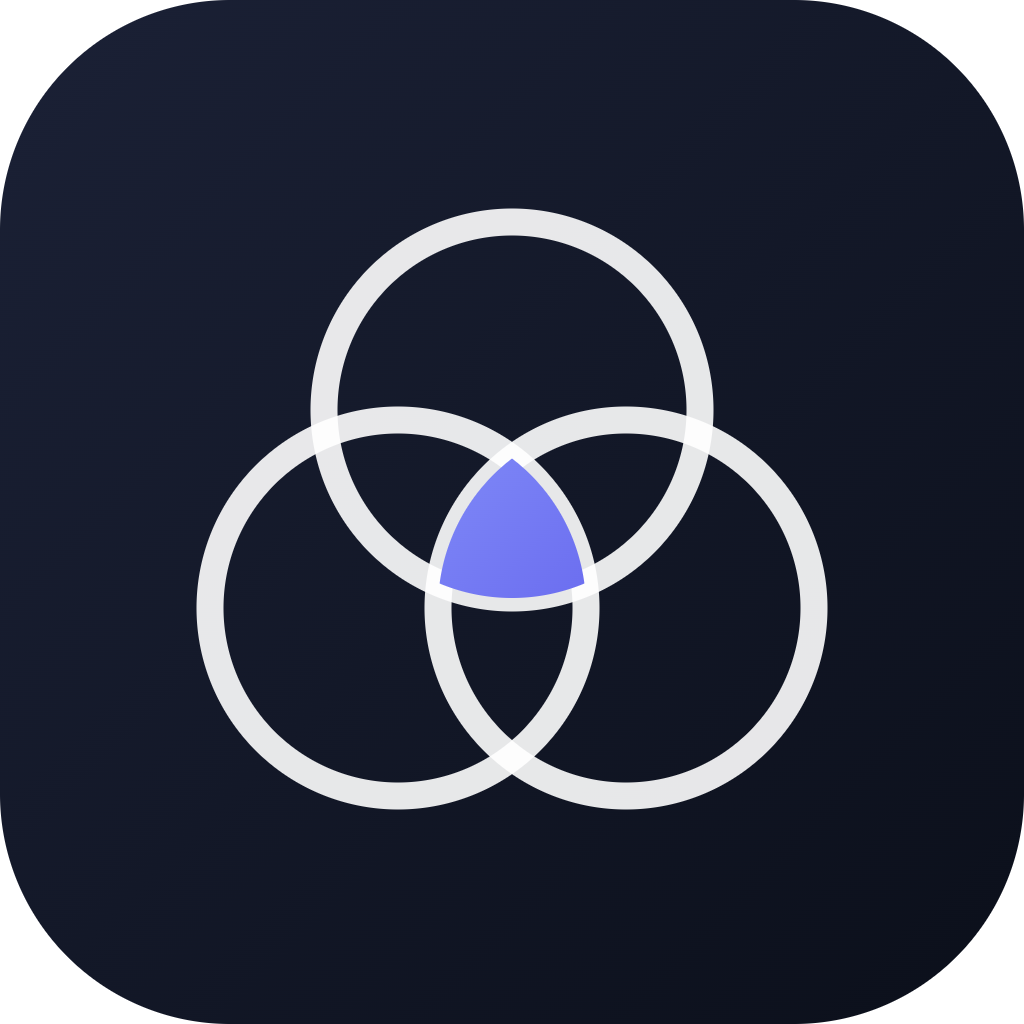
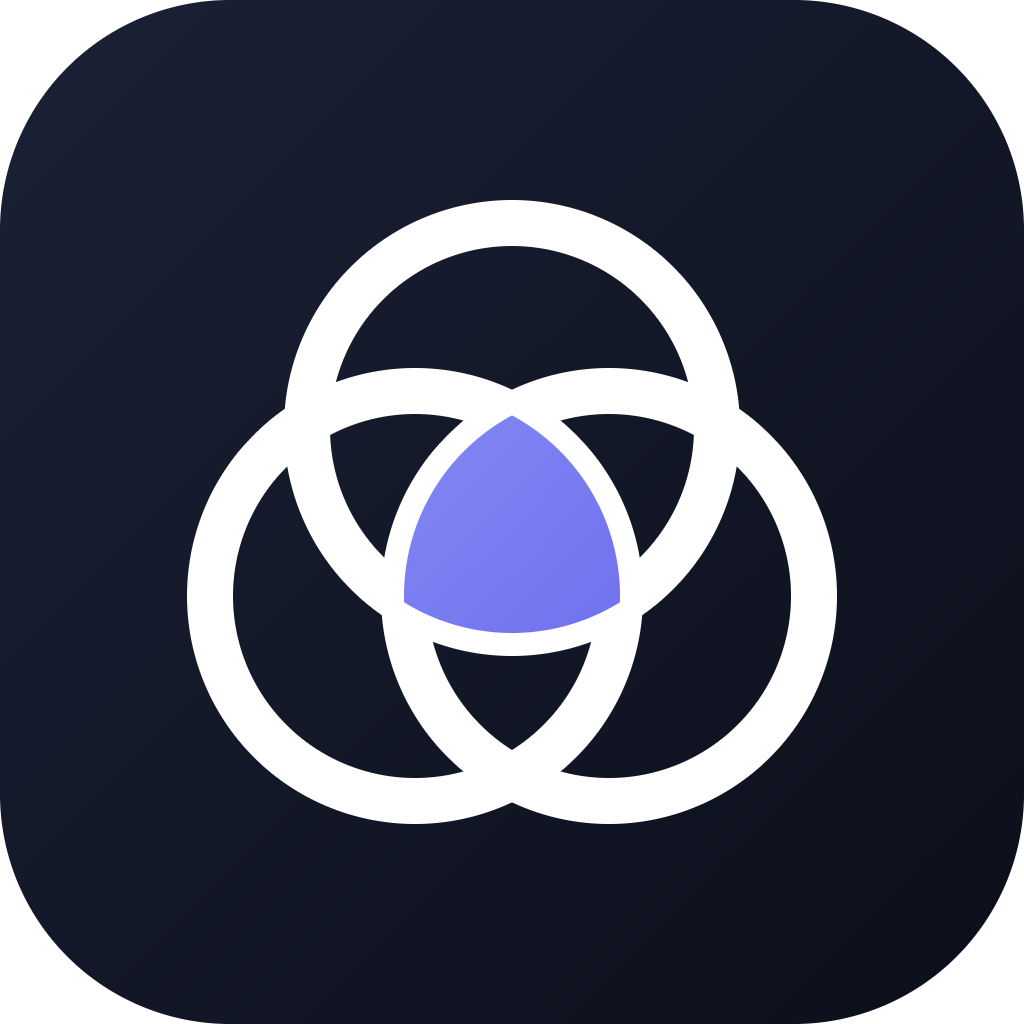
New identity: light the space the three circles share
Keeps the three circles but makes the shared middle the subject rather than a
detail, which is what the mark is actually about.

The old version failed as an icon, measurably: at 32px and 22px its 27-unit
strokes blurred into a grey smudge and the lit centre disappeared. Strokes are
now 46 and the circles sit closer together (d/r 0.55 rather than 0.70), which
enlarges the shared region so it still reads at 22px. The arrangement is
equilateral and shifted to y 540 so the bounding box is centred in the tile —
drawn around y 512 it sat 28 units high.

Applied everywhere: app icon, Android adaptive foreground/background/
monochrome, splash, favicon, the light variant for coloured grounds, and the
marks drawn in code inside Avatar and EmptyFeed, which now use the icon's exact
proportions so the brand cannot drift between them.

Adds the PWA layer that was missing entirely. Expo's static export emits no
manifest, so the app could not be installed to a desktop or home screen with
its own icon — it would have appeared as a generic browser shortcut.
app/+html.tsx now supplies the manifest link, the iOS touch icon (iOS ignores
the manifest for home-screen icons), theme colour, and Open Graph tags so a
shared event link previews properly.

Also drops the leftover Expo template react-logo art, which was never ours.

Changed region(s): [[0.1562, 0.1875, 0.8438, 0.8125]]

diff --git a/design/logo/mark.html b/design/logo/mark.html
@@ -1,84 +1,81 @@
-<!doctype html><html><head><meta charset="utf-8"><style>
- body{margin:0;background:transparent}
- svg{display:block}
-</style></head><body>
-
-<!-- Reusable mark: three circles meeting; the shared centre is the third space. -->
-<svg id="app-icon" width="1024" height="1024" viewBox="0 0 1024 1024" xmlns="http://www.w3.org/2000/svg">
+<!doctype html><html><head><meta charset="utf-8"><style>body{margin:0;background:transparent}svg{display:block}</style></head><body><svg id="app-icon" width="1024" height="1024" viewBox="0 0 1024 1024" xmlns="http://www.w3.org/2000/svg">
   <defs>
-    <linearGradient id="bg" x1="0" y1="0" x2="1" y2="1">
-      <stop offset="0%" stop-color="#1b2136"/><stop offset="100%" stop-color="#0b0f1a"/>
-    </linearGradient>
-    <linearGradient id="core" x1="0" y1="0" x2="1" y2="1">
-      <stop offset="0%" stop-color="#818cf8"/><stop offset="100%" stop-color="#4f46e5"/>
-    </linearGradient>
-    <clipPath id="k1"><circle cx="512" cy="410" r="188"/></clipPath>
-    <clipPath id="k2"><circle cx="398" cy="608" r="188"/></clipPath>
+    <linearGradient id="icbg" x1="0" y1="0" x2="1" y2="1"><stop offset="0%" stop-color="#1b2136"/><stop offset="100%" stop-color="#0b0f1a"/></linearGradient>
+    <linearGradient id="ichot" x1="0" y1="0" x2="1" y2="1"><stop offset="0%" stop-color="#a5b4fc"/><stop offset="100%" stop-color="#4f46e5"/></linearGradient>
+    <clipPath id="icc0"><circle cx="512.0" cy="428.0" r="205.0"/></clipPath>
+    <clipPath id="icc1"><circle cx="609.0" cy="596.0" r="205.0"/></clipPath>
+    <clipPath id="icc2"><circle cx="415.0" cy="596.0" r="205.0"/></clipPath>
   </defs>
-  <rect width="1024" height="1024" rx="230" fill="url(#bg)"/>
-  <g fill="none" stroke="#ffffff" stroke-opacity="0.9" stroke-width="27">
-    <circle cx="512" cy="410" r="188"/>
-    <circle cx="398" cy="608" r="188"/>
-    <circle cx="626" cy="608" r="188"/>
+  <rect width="1024" height="1024" rx="230" fill="url(#icbg)"/>
+  <g fill="none" stroke="#ffffff" stroke-width="46">
+      <circle cx="512.0" cy="428.0" r="205.0"/>
+      <circle cx="609.0" cy="596.0" r="205.0"/>
+      <circle cx="415.0" cy="596.0" r="205.0"/>
   </g>
-  <g clip-path="url(#k1)"><g clip-path="url(#k2)">
-    <circle cx="626" cy="608" r="188" fill="url(#core)"/>
-  </g></g>
-</svg>
-
-<!-- Android adaptive foreground: mark only, inside the 66% safe zone. -->
-<svg id="android-fg" width="1024" height="1024" viewBox="0 0 1024 1024" xmlns="http://www.w3.org/2000/svg">
+  <g clip-path="url(#icc0)"><g clip-path="url(#icc1)"><g clip-path="url(#icc2)">
+    <rect width="1024" height="1024" fill="url(#ichot)"/>
+  </g></g></g>
+</svg><svg id="android-fg" width="1024" height="1024" viewBox="0 0 1024 1024" xmlns="http://www.w3.org/2000/svg">
   <defs>
-    <linearGradient id="core2" x1="0" y1="0" x2="1" y2="1">
-      <stop offset="0%" stop-color="#818cf8"/><stop offset="100%" stop-color="#4f46e5"/>
-    </linearGradient>
-    <clipPath id="m1"><circle cx="512" cy="454" r="118"/></clipPath>
-    <clipPath id="m2"><circle cx="440" cy="578" r="118"/></clipPath>
+    <linearGradient id="afhot" x1="0" y1="0" x2="1" y2="1"><stop offset="0%" stop-color="#a5b4fc"/><stop offset="100%" stop-color="#4f46e5"/></linearGradient>
+    <clipPath id="afc0"><circle cx="512.0" cy="459.9" r="127.1"/></clipPath>
+    <clipPath id="afc1"><circle cx="572.1" cy="564.1" r="127.1"/></clipPath>
+    <clipPath id="afc2"><circle cx="451.9" cy="564.1" r="127.1"/></clipPath>
   </defs>
-  <g fill="none" stroke="#ffffff" stroke-width="17">
-    <circle cx="512" cy="454" r="118"/>
-    <circle cx="440" cy="578" r="118"/>
-    <circle cx="584" cy="578" r="118"/>
+  <g fill="none" stroke="#ffffff" stroke-width="29">
+      <circle cx="512.0" cy="459.9" r="127.1"/>
+      <circle cx="572.1" cy="564.1" r="127.1"/>
+      <circle cx="451.9" cy="564.1" r="127.1"/>
   </g>
-  <g clip-path="url(#m1)"><g clip-path="url(#m2)">
-    <circle cx="584" cy="578" r="118" fill="url(#core2)"/>
-  </g></g>
-</svg>
-
-<!-- Android adaptive background -->
-<svg id="android-bg" width="1024" height="1024" viewBox="0 0 1024 1024" xmlns="http://www.w3.org/2000/svg">
-  <defs><linearGradient id="bg2" x1="0" y1="0" x2="1" y2="1">
-    <stop offset="0%" stop-color="#1b2136"/><stop offset="100%" stop-color="#0b0f1a"/>
-  </linearGradient></defs>
-  <rect width="1024" height="1024" fill="url(#bg2)"/>
-</svg>
-
-<!-- Monochrome (themed icons): flat silhouette -->
-<svg id="android-mono" width="1024" height="1024" viewBox="0 0 1024 1024" xmlns="http://www.w3.org/2000/svg">
-  <g fill="none" stroke="#ffffff" stroke-width="17">
-    <circle cx="512" cy="454" r="118"/>
-    <circle cx="440" cy="578" r="118"/>
-    <circle cx="584" cy="578" r="118"/>
-  </g>
-</svg>
-
-<!-- Splash: mark without the plate, drawn on the splash background colour -->
-<svg id="splash" width="1024" height="1024" viewBox="0 0 1024 1024" xmlns="http://www.w3.org/2000/svg">
+  <g clip-path="url(#afc0)"><g clip-path="url(#afc1)"><g clip-path="url(#afc2)">
+    <rect width="1024" height="1024" fill="url(#afhot)"/>
+  </g></g></g>
+</svg><svg id="android-mono" width="1024" height="1024" viewBox="0 0 1024 1024" xmlns="http://www.w3.org/2000/svg">
   <defs>
-    <linearGradient id="core3" x1="0" y1="0" x2="1" y2="1">
-      <stop offset="0%" stop-color="#818cf8"/><stop offset="100%" stop-color="#4f46e5"/>
-    </linearGradient>
-    <clipPath id="s1"><circle cx="512" cy="424" r="176"/></clipPath>
-    <clipPath id="s2"><circle cx="405" cy="608" r="176"/></clipPath>
+    <linearGradient id="amhot" x1="0" y1="0" x2="1" y2="1"><stop offset="0%" stop-color="#ffffff"/><stop offset="100%" stop-color="#ffffff"/></linearGradient>
+    <clipPath id="amc0"><circle cx="512.0" cy="459.9" r="127.1"/></clipPath>
+    <clipPath id="amc1"><circle cx="572.1" cy="564.1" r="127.1"/></clipPath>
+    <clipPath id="amc2"><circle cx="451.9" cy="564.1" r="127.1"/></clipPath>
   </defs>
-  <g fill="none" stroke="#111827" stroke-width="25">
-    <circle cx="512" cy="424" r="176"/>
-    <circle cx="405" cy="608" r="176"/>
-    <circle cx="619" cy="608" r="176"/>
+  <g fill="none" stroke="#ffffff" stroke-width="29">
+      <circle cx="512.0" cy="459.9" r="127.1"/>
+      <circle cx="572.1" cy="564.1" r="127.1"/>
+      <circle cx="451.9" cy="564.1" r="127.1"/>
   </g>
-  <g clip-path="url(#s1)"><g clip-path="url(#s2)">
-    <circle cx="619" cy="608" r="176" fill="url(#core3)"/>
-  </g></g>
-</svg>
-
-</body></html>
+  <g clip-path="url(#amc0)"><g clip-path="url(#amc1)"><g clip-path="url(#amc2)">
+    <rect width="1024" height="1024" fill="url(#amhot)"/>
+  </g></g></g>
+</svg><svg id="splash" width="1024" height="1024" viewBox="0 0 1024 1024" xmlns="http://www.w3.org/2000/svg">
+  <defs>
+    <linearGradient id="sphot" x1="0" y1="0" x2="1" y2="1"><stop offset="0%" stop-color="#a5b4fc"/><stop offset="100%" stop-color="#4f46e5"/></linearGradient>
+    <clipPath id="spc0"><circle cx="512.0" cy="438.1" r="180.4"/></clipPath>
+    <clipPath id="spc1"><circle cx="597.4" cy="585.9" r="180.4"/></clipPath>
+    <clipPath id="spc2"><circle cx="426.6" cy="585.9" r="180.4"/></clipPath>
+  </defs>
+  <g fill="none" stroke="#111827" stroke-width="40">
+      <circle cx="512.0" cy="438.1" r="180.4"/>
+      <circle cx="597.4" cy="585.9" r="180.4"/>
+      <circle cx="426.6" cy="585.9" r="180.4"/>
+  </g>
+  <g clip-path="url(#spc0)"><g clip-path="url(#spc1)"><g clip-path="url(#spc2)">
+    <rect width="1024" height="1024" fill="url(#sphot)"/>
+  </g></g></g>
+</svg><svg id="mark-light" width="1024" height="1024" viewBox="0 0 1024 1024" xmlns="http://www.w3.org/2000/svg">
+  <defs>
+    <linearGradient id="mlhot" x1="0" y1="0" x2="1" y2="1"><stop offset="0%" stop-color="#ffffff"/><stop offset="100%" stop-color="#ffffff"/></linearGradient>
+    <clipPath id="mlc0"><circle cx="512.0" cy="438.1" r="180.4"/></clipPath>
+    <clipPath id="mlc1"><circle cx="597.4" cy="585.9" r="180.4"/></clipPath>
+    <clipPath id="mlc2"><circle cx="426.6" cy="585.9" r="180.4"/></clipPath>
+  </defs>
+  <g fill="none" stroke="#ffffff" stroke-width="40">
+      <circle cx="512.0" cy="438.1" r="180.4"/>
+      <circle cx="597.4" cy="585.9" r="180.4"/>
+      <circle cx="426.6" cy="585.9" r="180.4"/>
+  </g>
+  <g clip-path="url(#mlc0)"><g clip-path="url(#mlc1)"><g clip-path="url(#mlc2)">
+    <rect width="1024" height="1024" fill="url(#mlhot)"/>
+  </g></g></g>
+</svg><svg id="android-bg" width="1024" height="1024" viewBox="0 0 1024 1024" xmlns="http://www.w3.org/2000/svg">
+  <defs><linearGradient id="abg" x1="0" y1="0" x2="1" y2="1"><stop offset="0%" stop-color="#1b2136"/><stop offset="100%" stop-color="#0b0f1a"/></linearGradient></defs>
+  <rect width="1024" height="1024" fill="url(#abg)"/>
+</svg></body></html>

diff --git a/app/+html.tsx b/app/+html.tsx
@@ -1,0 +1,65 @@
+import React from 'react';
+import { ScrollViewStyleReset } from 'expo-router/html';
+
+/**
+ * The HTML shell for every statically rendered web page.
+ *
+ * Expo's export does not emit PWA metadata, so without this the app cannot be
+ * installed to a desktop or home screen with its own icon and name — it would
+ * appear as a generic browser shortcut. This adds the manifest, the iOS
+ * touch icon (iOS ignores the manifest for home-screen icons) and the theme
+ * colour that tints the browser and OS chrome.
+ */
+export default function Root({ children }: { children: React.ReactNode }) {
+  return (
+    <html lang="en">
+      <head>
+        <meta charSet="utf-8" />
+        <meta httpEquiv="X-UA-Compatible" content="IE=edge" />
+        <meta
+          name="viewport"
+          content="width=device-width, initial-scale=1, shrink-to-fit=no, viewport-fit=cover"
+        />
+
+        <meta
+          name="description"
+          content="Find what is happening around you — and the people doing it."
+        />
+
+        {/* Installability */}
+        <link rel="manifest" href="/manifest.json" />
+        <meta name="theme-color" content="#0B0F1A" />
+        <meta name="apple-mobile-web-app-capable" content="yes" />
+        <meta name="apple-mobile-web-app-status-bar-style" content="black-translucent" />
+        <meta name="apple-mobile-web-app-title" content="Third Space" />
+
+        {/* iOS reads this rather than the manifest for the home-screen icon. */}
+        <link rel="apple-touch-icon" sizes="180x180" href="/icons/apple-touch-icon.png" />
+        <link rel="icon" type="image/png" sizes="192x192" href="/icons/icon-192.png" />
+        <link rel="icon" type="image/png" sizes="512x512" href="/icons/icon-512.png" />
+
+        {/* Link previews, for when someone shares an event. */}
+        <meta property="og:site_name" content="The Third Space" />
+        <meta property="og:type" content="website" />
+        <meta property="og:title" content="The Third Space" />
+        <meta
+          property="og:description"
+          content="Find what is happening around you — and the people doing it."
+        />
+        <meta property="og:image" content="/icons/icon-512.png" />
+        <meta name="twitter:card" content="summary" />
+
+        {/*
+          Keeps the body background from flashing white before React mounts,
+          and stops the page itself scrolling behind the full-screen feed.
+        */}
+        <ScrollViewStyleReset />
+        <style dangerouslySetInnerHTML={{ __html: `
+          html, body { background-color: #0B0F1A; }
+          body { overscroll-behavior-y: none; }
+        ` }} />
+      </head>
+      <body>{children}</body>
+    </html>
+  );
+}

diff --git a/components/EmptyFeed.tsx b/components/EmptyFeed.tsx
@@ -72,23 +72,30 @@ export default function EmptyFeed({
   return (
     <View style={[styles.wrap, isDark ? styles.wrapDark : styles.wrapLight]}>
       <Animated.View style={{ opacity: enter, transform: [{ translateY }] }}>
-        <Svg width={84} height={84} viewBox="0 0 100 100" style={styles.mark}>
+        {/* The app mark, at the same proportions as the icon. */}
+        <Svg width={92} height={92} viewBox="0 0 100 100" style={styles.mark}>
           <Defs>
+            <ClipPath id="ef0">
+              <Circle cx="50" cy="41.8" r="20" />
+            </ClipPath>
             <ClipPath id="ef1">
-              <Circle cx="50" cy="36" r="24" />
+              <Circle cx="59.5" cy="58.2" r="20" />
             </ClipPath>
             <ClipPath id="ef2">
-              <Circle cx="36" cy="60" r="24" />
+              <Circle cx="40.5" cy="58.2" r="20" />
             </ClipPath>
           </Defs>
-          <G fill="none" stroke={stroke} strokeWidth="3.4">
-            <Circle cx="50" cy="36" r="24" />
-            <Circle cx="36" cy="60" r="24" />
-            <Circle cx="64" cy="60" r="24" />
+          <G fill="none" stroke={stroke} strokeWidth="4.5">
+            <Circle cx="50" cy="41.8" r="20" />
+            <Circle cx="59.5" cy="58.2" r="20" />
+            <Circle cx="40.5" cy="58.2" r="20" />
           </G>
-          <G clipPath="url(#ef1)">
-            <G clipPath="url(#ef2)">
-              <Circle cx="64" cy="60" r="24" fill="#6366f1" />
+          {/* The shared middle, lit — the third space itself. */}
+          <G clipPath="url(#ef0)">
+            <G clipPath="url(#ef1)">
+              <G clipPath="url(#ef2)">
+                <Circle cx="50" cy="50" r="50" fill="#6366f1" />
+              </G>
             </G>
           </G>
         </Svg>

diff --git a/components/Avatar.tsx b/components/Avatar.tsx
@@ -62,23 +62,20 @@ export default function Avatar({
   const initials = initialsFor(name);
 
   /**
-   * The three circles sit on an equilateral arrangement whose bounding box is
-   * centred in the tile (verified: x 19.7–80.3, y 21.0–78.5, both midpoints
-   * 50). The previous placement was not equilateral and was drawn around
-   * y=50, which put the mass low and left and read as badly centred. The tile
-   * is also no longer rotated per user — rotating a three-fold shape by an
-   * arbitrary angle shifts its bounding box, and the per-user variety already
-   * comes from the palette and the initials.
+   * The mark, matching the app icon exactly so the brand does not drift
+   * between the icon and the avatars: three circles on an equilateral
+   * arrangement (r 20, d 10.9 about a centre at y 52.7 in a 100 viewBox),
+   * which places the bounding box dead centre in the tile.
+   *
+   * Rings only here — the icon fills the shared middle, but behind initials
+   * that fill would fight the letters.
    */
-  const MARK_CENTRE_Y = 53;
-  const MARK_DISTANCE = 13;
-  const MARK_RADIUS = 19;
-
+  const MARK_RADIUS = 20;
   const markCentres = [-90, 30, 150].map((degrees) => {
     const radians = (degrees * Math.PI) / 180;
     return {
-      cx: 50 + MARK_DISTANCE * Math.cos(radians),
-      cy: MARK_CENTRE_Y + MARK_DISTANCE * Math.sin(radians),
+      cx: 50 + 10.9 * Math.cos(radians),
+      cy: 52.7 + 10.9 * Math.sin(radians),
     };
   });
 
@@ -104,7 +101,7 @@ export default function Avatar({
               r={MARK_RADIUS}
               fill="none"
               stroke="#fff"
-              strokeWidth="3.4"
+              strokeWidth="4.5"
             />
           ))}
         </G>
